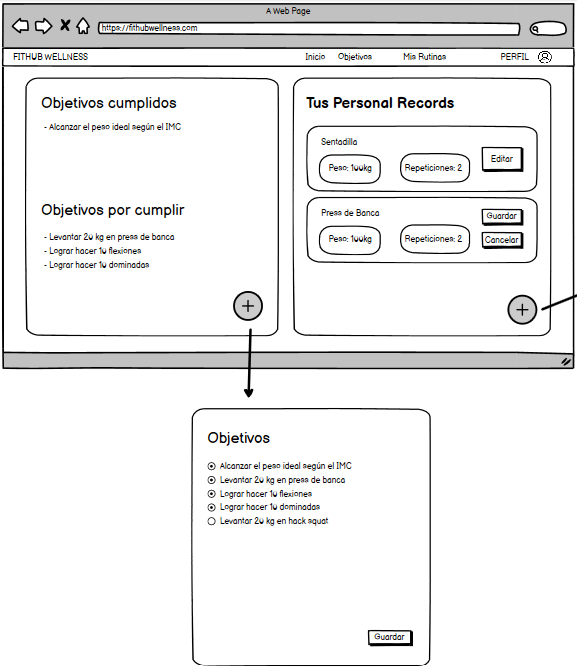
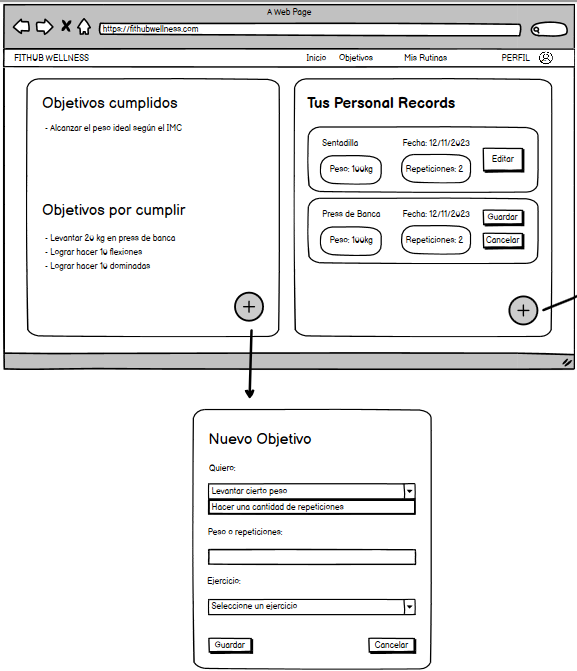
updated historia 60

Changed region(s): [[0.0, 0.0, 1.0, 1.0]]

diff --git a/historias/60_PonerObjetivo.md b/historias/60_PonerObjetivo.md
@@ -1,15 +1,16 @@
 # Historia de usuario 60: Poner objetivo de fitness
 
 - Yo: como usuario de la aplicación,
-- Quiero: poder poner uno o varios objetivos de fitness,
-- Para: poder seguir una rutina de ejercicios personalizada.
+- Quiero: poder poner crear uno o varios objetivos de fitness,
+- Para: poder ver los objetivos de fitness que he puesto.
 
 ## Especificación de requerimientos
 
 - El sistema debe permitir al usuario poner uno o varios objetivos de fitness.
-- El sistema tendrá una lista de objetivos de fitness predefinidos.
-- El usuario debe poder ver los objetivos de fitness que ha puesto.
-- El usuario debe poder editar los objetivos de fitness que ha puesto.
+- El sistema tendrá dos tipos de objetivos de fitness: lograr levantar un peso determinado, y lograr hacer una cantidad de repeticiones determinada.
+- El usuario puede seleccionar en que ejercicio quiere poner un objetivo de fitness.
+- El sistema debe permitir al usuario ver los objetivos de fitness que ha puesto.
+- Los campos son obligatorios al momento de llenar el formulario de poner objetivo de fitness.
 
 ## Análisis
 
@@ -17,11 +18,9 @@ A continuación se presenta la pantalla de poner objetivo de fitness, cuyo funci
 
 1. El usuario esta en la página de objetivos.
 2. El usuario hace click en el botón de "Más".
-3. El sistema muestra al usuario una lista de objetivos de fitness predefinidos.
-4. El usuario puede seleccionar uno o varios objetivos de fitness.
-5. El usuario hace click en el botón de "Guardar".
-6. El sistema muestra al usuario los objetivos de fitness que ha puesto.
-7. El usuario puede editar los objetivos de fitness que ha puesto, seleccionandolos o deseleccionandolos.
+3. El sistema muestra al usuario un formulario para poner un objetivo de fitness (tipo de objetivo, ejercicio, peso, repeticiones).
+4. El usuario llena el formulario y hace click en el botón de "Guardar".
+5. El sistema guarda el objetivo de fitness y muestra al usuario la lista de objetivos de fitness que ha puesto.
 
 <img src="../assets/historia60.png" alt="Pantalla de poner objetivo de fitness" width="500"/>
 
@@ -31,56 +30,59 @@ A continuación se presenta la pantalla de poner objetivo de fitness, cuyo funci
 
 - Dado: que el usuario está en la página de objetivos.
 - Cuando: el usuario hace click en el botón de "Más".
-- Entonces: el sistema muestra al usuario una lista de objetivos de fitness predefinidos.
+- Entonces: el sistema muestra al usuario un formulario para poner un objetivo de fitness (tipo de objetivo, ejercicio, peso, repeticiones).
 
 ## Diseño
 
 ### Integración con las APIs
 
-#### Al momento de seleccionar objetivos de fitness
+#### Al momento de poner un objetivo de fitness
 
-Cuando el usuario seleccione un objetivo de la lista de objetivos predefinidos, el sistema cambiará el estado de ese objetivo con un booleano.
-
-- Request: `PUT /api/v1/objetivos/{id}/`
+- Request: POST `/api/objetivos-fitness/`
 
 ```json
 {
-    "name": "Objetivo 1",
-    "description": "Descripcion del objetivo 1",
-    "selected": true
+    "tipo": "levantar peso",
+    "ejercicioid": "1",
+    "peso": 100,
+    "repeticiones": 0
 }
 ```
 
-- Response: `200 OK`
+- Response: 201
 
 ```json
 {
     "id": 1,
-    "name": "Objetivo 1",
-    "description": "Descripcion del objetivo 1",
-    "selected": true
+    "tipo": "levantar peso",
+    "ejercicioid": "1",
+    "peso": 100,
+    "repeticiones": 0
 }
-``` 
+```
 
-#### Al momento de ver los objetivos de fitness que ha puesto
+#### Al momento de ver los objetivos de fitness
 
-- Request: `GET /api/v1/objetivos/`
+- Request: GET `/api/objetivos-fitness/`
 
-- Response: `200 OK`
+- Response: 200
 
 ```json
 [
     {
         "id": 1,
-        "name": "Objetivo 1",
-        "description": "Descripcion del objetivo 1",
-        "selected": true
-    },
-    {
-        "id": 2,
-        "name": "Objetivo 2",
-        "description": "Descripcion del objetivo 2",
-        "selected": false
+        "tipo": "levantar peso",
+        "ejercicioid": "1",
+        "peso": 100,
+        "repeticiones": 0
     }
 ]
+```
+
+- Response: 404
+
+```json
+{
+    "message": "No se encontraron objetivos de fitness."
+}
 ```
